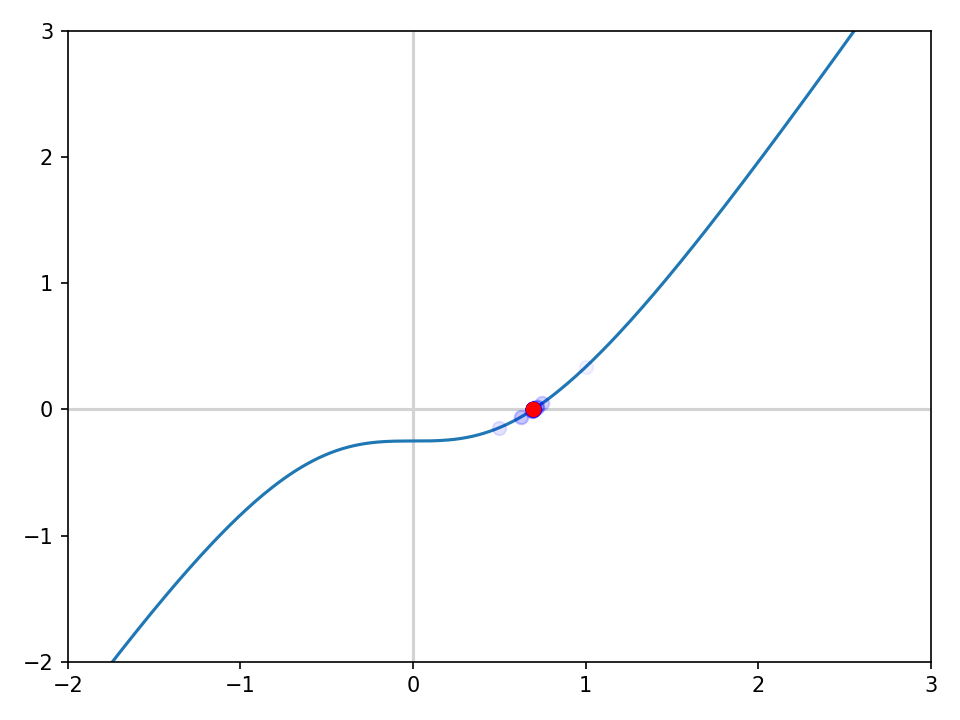
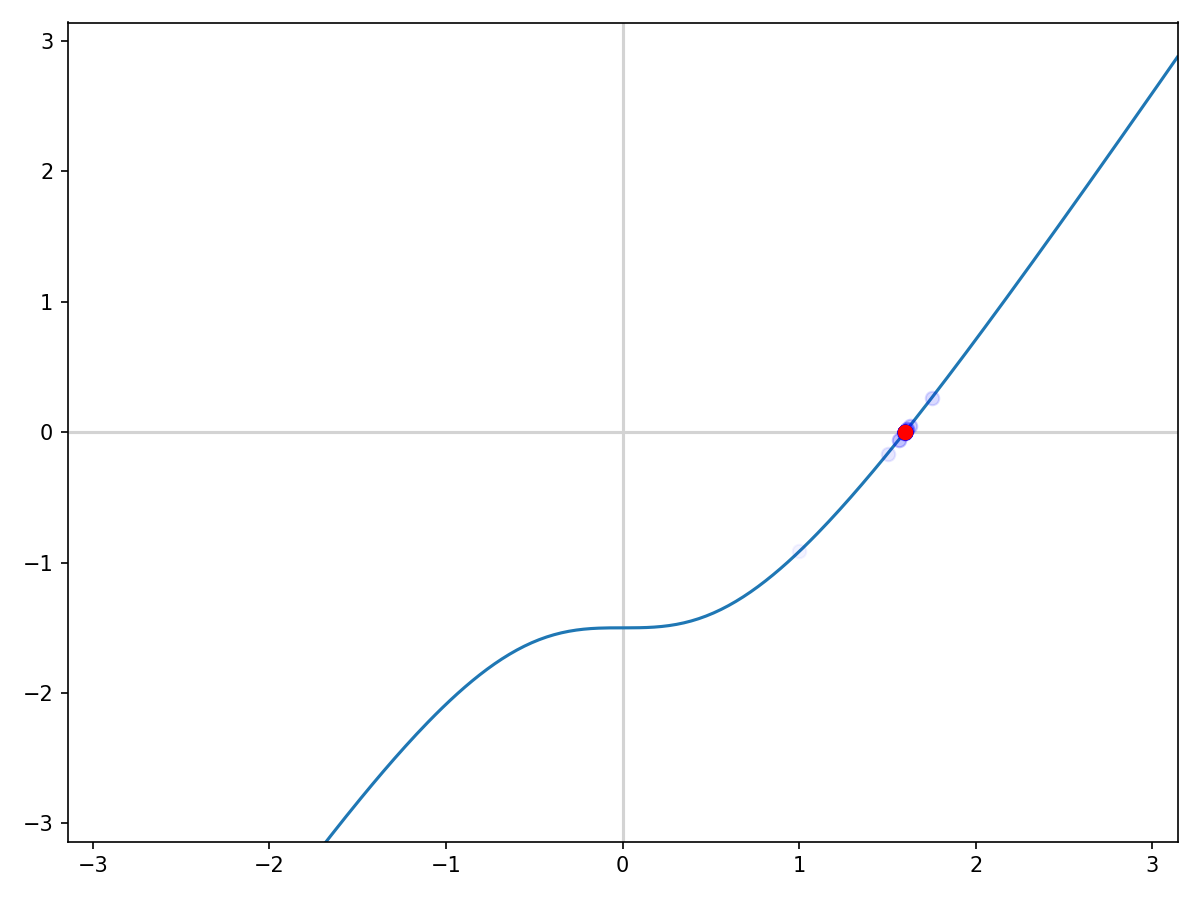
added all the tutorials

diff --git a/assignment_1_warmup/bisection_method.py b/assignment_1_warmup/bisection_method.py
@@ -4,9 +4,11 @@ import matplotlib.pyplot as plt
 def plotter_function(f, c_history, title = None, plotting_interval = [-5, 5]):
     a_, b_ = plotting_interval
     x = np.linspace(a_, b_, 300)
-    plt.figure()
-    plt.xlim((a_, b_))
-    plt.ylim((a_, b_))
+    plt.figure(figsize=(8, 6))
+    # plt.xlim((a_, b_))
+    # plt.ylim((-2, 80))
+    plt.xlabel(r'$x$')
+    plt.ylabel(r'$f(x)$')
     plt.axhline(y = 0, color = 'lightgray', zorder = 1)
     plt.axvline(x = 0, color = 'lightgray', zorder = 1)
     plt.plot(x, f(x), zorder = 1)
@@ -36,7 +38,7 @@ def bisect(f, interval, max_iter, TOL=1e-6):
     a = interval[0] - epsilon
     b = interval[1] + epsilon
     for i in range(max_iter):
-        c = 1.0
+        c = 0.1
         if not_the_same_sign(f(a), f(b)):
             c = take_average(a, b)
             c_history.append(c)
@@ -61,13 +63,21 @@ if __name__=="__main__":
     b = 2
     max_iter = 100
     # f: function to find the root
-    # f = lambda x: x**2 - 4
+    f = lambda x: (x-0.5)**3 
     K = 1
     l = 1
-    F = 0.25
-    f = lambda w: 2*K*(np.sqrt(l**2 + w**2) - l) * (w)/(np.sqrt(l**2 + w**2)) - F
+    F = 1.5
+    a_ = 1
+    b_ = 10
+    # f = lambda w: 2*K*(np.sqrt(l**2 + w**2) - l) * (w)/(np.sqrt(l**2 + w**2)) - F
+    # f = lambda phi: (phi*np.pi/180)/np.sin(phi*np.pi/180) - F*l/K
     # f = lambda x: np.sin(5 * x) + x**3 - x
-    c, f_c, c_history = bisect(f, [a, b], max_iter)
+    f = lambda x: (a_ - x)**2 + b_*(1-x**2)**2 - 15
+    x = np.linspace(-1, 2, 300)
+    plt.plot(x, f(x))
+    plt.grid()
+    plt.show()
+    c, f_c, c_history = bisect(f, [a, b], max_iter, TOL = 1e-3)
     print(f"root = {c}")
     # Plotting the results and steps to the root
-    plotter_function(f, c_history,  "1_dof_problem", [-2, 3])
+    plotter_function(f, c_history,  "eq3", [-1, 2])

diff --git a/assignment_1_warmup/README.md b/assignment_1_warmup/README.md
@@ -37,7 +37,7 @@ root, func_val_at_root, root_history = bisect(f, interval, max_iter, TOL)
 ## Examples
 1. One DOF problem:
     * find w for which (K = 1, l = 1, F = 0.25):
-$$ 2K [\sqrt{l^2 + w^2} - l]\frac{w}{\sqrt{l^2 + w^2}} - F = 0 $$
+$$2K [\sqrt{l^2 + w^2} - l]\frac{w}{\sqrt{l^2 + w^2}} - F = 0$$
 
 ```python
 interval = [0, 2]
@@ -46,4 +46,70 @@ max_iter = 100
 f = lambda w: 2*K*(np.sqrt(l**2 + w**2) - l) * (w)/(np.sqrt(l**2 + w**2)) - F
 root, f_at_root, root_hist = bisect(f, interval, max_iter, Tol)
 ```
-![Alt text](figs/1_dof_problem.png)
+<div align="center">
+<img src="figs/1_dof_problem.png" width="200" height="150">
+</div>
+2. Biforcation Problem (Nonlinear finite element methods, Wriggers, 2008):
+
+* Given the spiral spring constant `c = 1`, the length of the bar `l = 1` and the force `F = 1.5`, find the value of `phi` for which the system is in equilibrium.
+<div align="center">
+<img src="figs/bifurcation.png" width="300" height="150">
+</div>
+
+* In this problem we can see how bisection method can be used to find only one root of an unstable system given the correct initial guess.
+```python
+interval = [0, 90]
+max_iter = 100
+Tol = 1e-6
+K = 1
+l = 1
+F = 1.5
+f = lambda phi: (phi*np.pi/180)/np.sin(phi*np.pi/180) - F*l/K
+root, f_at_root, root_hist = bisect(f, interval, max_iter, Tol)
+```
+<div align="center">
+<img src="figs/bifurcation problem.png" width="200" height="150">
+</div>
+
+3. Solving other equations:
+To solve other equations, you can define the function and the interval and use the `bisect()` function to find the root.
+    1.  $$y = (x-0.5)^3$$
+```python
+interval = [0, 2]
+max_iter = 100
+Tol = 1e-6
+f = lambda x: (x-0.5)**3
+root, f_at_root, root_hist = bisect(f, interval, max_iter, Tol)
+```
+<div align="center">
+<img src="figs/eq1.png" width="200" height="150">
+</div>
+    2. $$y = sin(5x) + x^3 - x$$
+```python
+interval = [-2, 2]
+max_iter = 100
+Tol = 1e-6
+f = lambda x: np.sin(5*x) + x**3 - x
+root, f_at_root, root_hist = bisect(f, interval, max_iter, Tol)
+```
+<div align="center">
+<img src="figs/eq2.png" width="200" height="150">
+</div>
+    3.  Here I have changed the Rosenbrock function so that it can be used with the bisection method$\elipses$
+    $$(a_ - x)^2 + b(1 - x^2)^2 - 15 = 0$$
+```python
+interval = [0, 2]
+max_iter = 100
+Tol = 1e-6
+a = 1
+b = 10
+f = lambda x: (a - x)**2 + b*(1 - x**2)**2 - 15
+root, f_at_root, root_hist = bisect(f, interval, max_iter, Tol)
+```
+<div align="center">
+<img src="figs/eq3.png" width="200" height="150">
+</div>
+
+## References
+
+1. Wriggers, P. (2008). Nonlinear finite element methods. Springer Science & Business Media.
